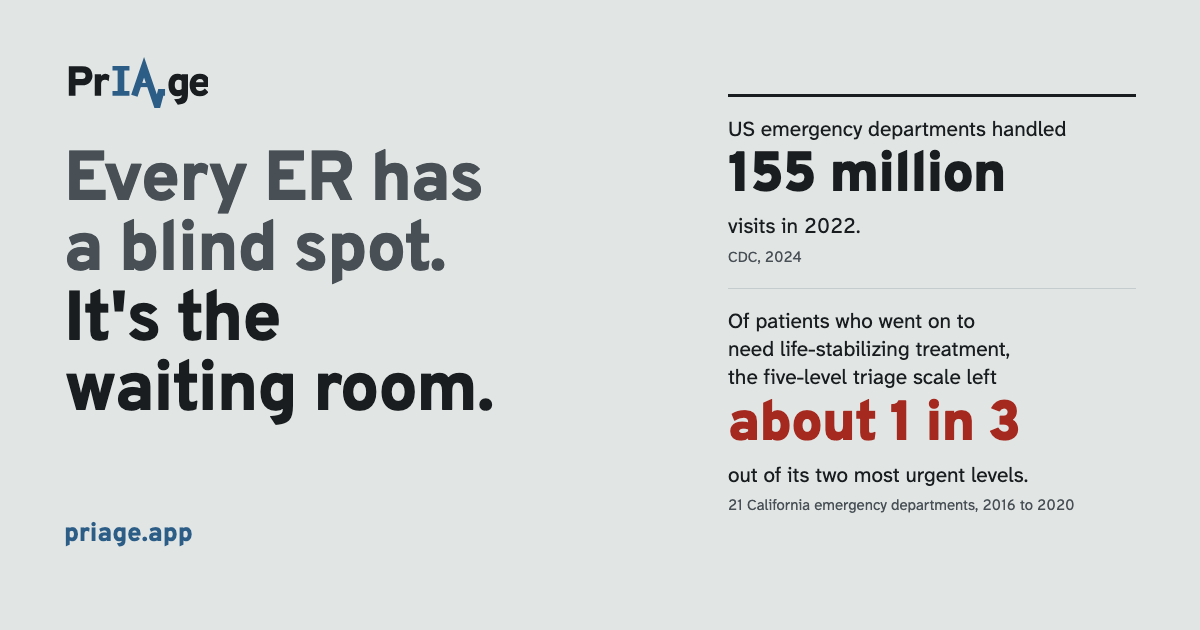
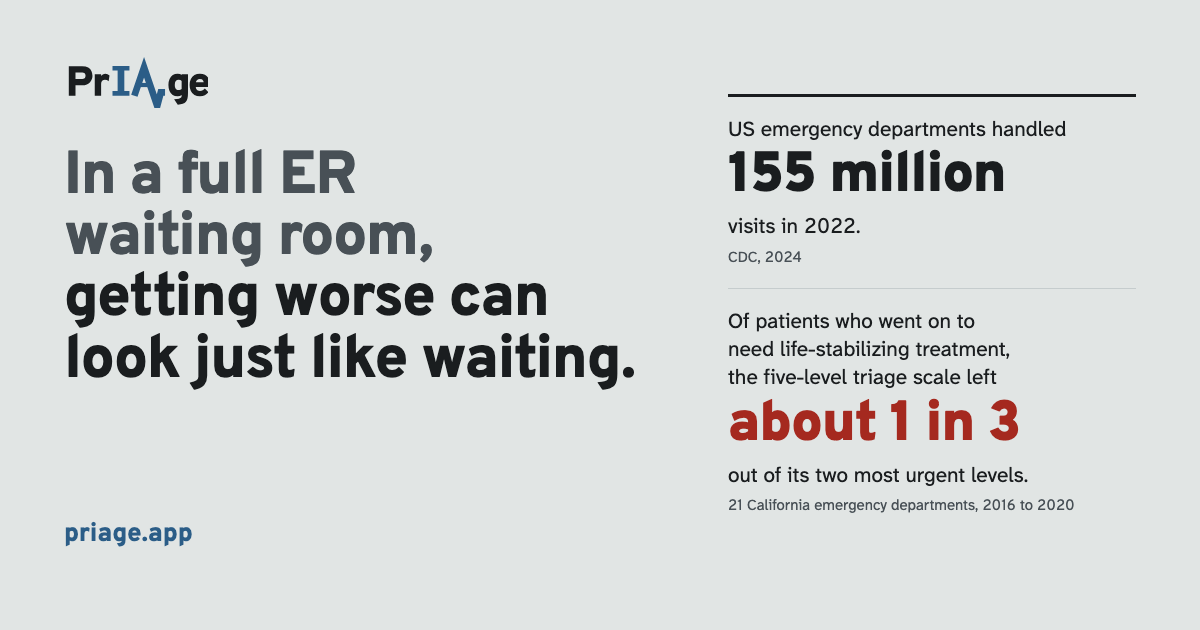
v15: "Getting worse can look just like waiting"
Drop "blind spot", which implied nobody sees or is working on the
problem. The AI line now names patients and the people who care for them.

Changed region(s): [[0.0308, 0.2413, 0.5242, 0.6937]]

diff --git a/docs/index.html b/docs/index.html
@@ -3,29 +3,29 @@
 <head>
   <meta charset="utf-8">
   <meta name="viewport" content="width=device-width, initial-scale=1">
-  <title>PrIAge: every ER has a blind spot. It's the waiting room.</title>
+  <title>PrIAge: in a full ER waiting room, getting worse can look just like waiting</title>
   <meta name="description" content="Patients can wait for hours in the ER, before triage and after it, and it is hard for anyone to see who is getting worse. The numbers, the strain on the people who work there, and what PrIAge is working on.">
   <meta name="robots" content="noindex, nofollow, noarchive, nosnippet, noimageindex">
   <meta name="theme-color" content="#2b5d87">
-  <link rel="icon" href="favicon.svg?v=14" type="image/svg+xml">
+  <link rel="icon" href="favicon.svg?v=15" type="image/svg+xml">
   <link rel="apple-touch-icon" href="apple-touch-icon.png">
   <meta property="og:type" content="website">
   <meta property="og:url" content="https://priage.app/">
-  <meta property="og:title" content="Every ER has a blind spot. It's the waiting room.">
+  <meta property="og:title" content="In a full ER waiting room, getting worse can look just like waiting.">
   <meta property="og:description" content="Patients can wait for hours in the ER, and it is hard for anyone to see who is getting worse. What happens while people wait, and what PrIAge is working on.">
-  <meta property="og:image" content="https://priage.app/og.png?v=14">
+  <meta property="og:image" content="https://priage.app/og.png?v=15">
   <meta name="twitter:card" content="summary_large_image">
   <link rel="preload" href="fonts/overpass.woff2" as="font" type="font/woff2" crossorigin>
   <link rel="preload" href="fonts/atkinson-next.woff2" as="font" type="font/woff2" crossorigin>
-  <link rel="stylesheet" href="styles.css?v=14">
-  <script src="app.js?v=14" defer></script>
+  <link rel="stylesheet" href="styles.css?v=15">
+  <script src="app.js?v=15" defer></script>
 </head>
 <body>
   <a class="skip" href="#top">Skip to content</a>
 
   <header class="top">
     <div class="wrap nav">
-      <a class="wordmark" href="#top"><img src="logo.svg?v=14" alt="PrIAge" width="120" height="43"></a>
+      <a class="wordmark" href="#top"><img src="logo.svg?v=15" alt="PrIAge" width="120" height="43"></a>
       <nav aria-label="Main">
         <ul>
           <li class="nav-quiet"><a href="#story">The numbers</a></li>
@@ -39,7 +39,7 @@
   <main id="top">
     <section class="hero" aria-labelledby="hero-title">
       <div class="wrap hero-grid">
-        <h1 id="hero-title"><span class="h1-setup">Every ER has a blind spot.</span> <span class="h1-turn">It's the waiting room.</span></h1>
+        <h1 id="hero-title"><span class="h1-setup">In a full ER waiting room,</span> <span class="h1-turn">getting worse can look just like waiting.</span></h1>
         <p class="lede">Patients can wait for hours, before triage and after it. While they wait, it is hard for anyone to see who is getting worse.</p>
         <ul class="hero-stats">
           <li class="stat">
@@ -57,7 +57,7 @@
         </ul>
         <div class="ai-plate">
           <div class="ai-copy">
-            <p class="ai-line"><b>PrIAge</b> plans to use AI to help improve outcomes for people waiting in the ER.</p>
+            <p class="ai-line"><b>PrIAge</b> plans to use AI to help improve outcomes for patients waiting in the ER and for the people who care for them.</p>
             <p class="ai-stage">We're early: in fall 2026 we're talking with ER staff, hospital leaders, patients and families.</p>
           </div>
           <a class="btn btn-light" href="#talk">Talk with us

diff --git a/docs/styles.css b/docs/styles.css
@@ -174,7 +174,7 @@ p { text-wrap: pretty; }
   column-gap: clamp(32px, 5vw, 80px);
 }
 /* a setup and a punchline: the second line lands darker */
-.hero h1 { grid-area: title; font-size: clamp(2.75rem, 1.1rem + 5.4vw, 5.75rem); line-height: 0.98; letter-spacing: -0.025em; }
+.hero h1 { grid-area: title; font-size: clamp(2.5rem, 1.2rem + 4.2vw, 4.75rem); line-height: 1; letter-spacing: -0.022em; }
 .h1-setup, .h1-turn { display: block; }
 .h1-setup { color: var(--ink-soft); }
 .lede { grid-area: lede; align-self: start; margin-top: 28px; max-width: 34ch; font-size: clamp(1.1875rem, 1.05rem + 0.45vw, 1.375rem); line-height: 1.5; }
@@ -190,7 +190,7 @@ p { text-wrap: pretty; }
   background: var(--seat-deep); color: var(--on-seat);
   --focus: var(--on-seat);
 }
-.ai-line { max-width: 32ch; font-family: var(--sign); font-weight: 800; font-size: clamp(1.375rem, 1rem + 1.2vw, 2rem); line-height: 1.15; letter-spacing: -0.01em; text-wrap: balance; }
+.ai-line { max-width: 40ch; font-family: var(--sign); font-weight: 800; font-size: clamp(1.375rem, 1rem + 1.2vw, 2rem); line-height: 1.15; letter-spacing: -0.01em; text-wrap: balance; }
 .ai-line b { font-weight: 900; }
 .ai-stage { margin-top: 8px; font-size: 1rem; color: var(--on-seat-soft); }
 .ai-plate .btn { flex: none; }

diff --git a/brand/build/og.html b/brand/build/og.html
@@ -16,7 +16,7 @@
   }
   .left { display: flex; flex-direction: column; }
   .logo { height: 52px; width: auto; align-self: flex-start; }
-  h1 { margin: 40px 0 0; font: 800 70px/1.0 "Overpass", sans-serif; letter-spacing: -0.02em; }
+  h1 { margin: 40px 0 0; font: 800 60px/1.02 "Overpass", sans-serif; letter-spacing: -0.02em; }
   .setup, .turn { display: block; text-wrap: balance; }
   .setup { color: #485056; }
   .url { margin-top: auto; font: 800 26px/1 "Overpass", sans-serif; color: #2b5d87; }
@@ -38,7 +38,7 @@
 <body>
   <div class="left">
     <img class="logo" src="../../docs/logo.svg" alt="PrIAge">
-    <h1><span class="setup">Every ER has a blind spot.</span> <span class="turn">It's the waiting room.</span></h1>
+    <h1><span class="setup">In a full ER waiting room,</span> <span class="turn">getting worse can look just like waiting.</span></h1>
     <p class="url">priage.app</p>
   </div>
   <div class="stats">

diff --git a/PRODUCT.md b/PRODUCT.md
@@ -31,7 +31,7 @@ After a one-time triage snapshot, patients can wait for hours while nobody sees 
 - Never imply reordering, ranking or skipping patients ("the changes ... and skipping people over has tons of implications").
 - Never blame nurses or hospitals; the system is overloaded.
 - Validate the people in the system (confirmed 2026-10-17): nurse fatigue and staffing, hospital capacity, and dollar costs are part of the story, told so that nurses and administrators feel seen, never blamed.
-- No sensational or scary tone, and no playful devices around a life-and-death topic. The owner asked for a more dramatic headline (2026-10-17): "Every ER has a blind spot. It's the waiting room." Drama comes from structure and scale, never from gore, alarm colors or invented claims.
+- No sensational or scary tone, and no playful devices around a life-and-death topic. The owner asked for a more dramatic headline (2026-10-17), then dropped "blind spot" because it implies nobody sees the problem or is trying to solve it. Headline now: "In a full ER waiting room, getting worse can look just like waiting." The difficulty is in seeing the change, never in the people watching. Drama comes from structure and scale, never from gore, alarm colors or invented claims.
 - Focus on the US (confirmed 2026-10-17): lead with US data; strong non-US studies can appear as supporting numbers without highlighting the country, and the number always carries the emphasis over the study.
 - The ask (confirmed 2026-10-17): one simple invitation, no role picking; say what we're looking for (conversations, advice, introductions) and welcome general contact.
 - The page's jobs (confirmed 2026-10-17): land interviews; be the link in applications (accelerators, grants, programs); get into competitions; and tell people what PrIAge is working on. So readers include application reviewers and competition judges who skim for the problem, who is behind it, what the team is working toward, and how far along it is.
@@ -43,7 +43,7 @@ After a one-time triage snapshot, patients can wait for hours while nobody sees 
 
 - No product exists yet. Do not describe features, models, data sources, or how it works.
 - Do not publish the approaches being explored (confirmed 2026-10-17: "I don't know if we should share what we're exploring yet, just what the problem we're looking to solve").
-- Say that PrIAge uses AI, but never how (confirmed 2026-10-17: "Don't explain what the solution is, but just say that we're going to be using AI to solve this problem somewhere in the hero"). Keep it very vague (confirmed 2026-10-17: "say PrIAge plans to use AI to help improve outcomes, or something like that. Very vague"). The hero line: "PrIAge plans to use AI to help improve outcomes for people waiting in the ER." No mention of nurses, information or any mechanism there.
+- Say that PrIAge uses AI, but never how. AI line (2026-10-17): "PrIAge plans to use AI to help improve outcomes for patients waiting in the ER and for the people who care for them." It serves patients and providers alike (confirmed 2026-10-17: "Don't explain what the solution is, but just say that we're going to be using AI to solve this problem somewhere in the hero"). Keep it very vague (confirmed 2026-10-17: "say PrIAge plans to use AI to help improve outcomes, or something like that. Very vague"). The hero line: "PrIAge plans to use AI to help improve outcomes for people waiting in the ER." No mention of nurses, information or any mechanism there.
 - Earlier internal prototypes were throwaway tests, not the product; never describe them publicly.
 - Contact: hello@priage.app, forwarded to the owner's Gmail via Cloudflare Email Routing.
 - Audience access (confirmed 2026-10-17): US visitors only and no scraping. Cloudflare proxies priage.app and blocks every country except the US and its territories (US, PR, GU, VI, AS, MP); its AI-bot block is on for search, agent and training bots; the page carries `noindex`; robots.txt admits only link-preview bots (LinkedIn, Slack, X, Facebook, WhatsApp, Telegram, Discord) so shared links still show a card. Trade-off accepted: reviewers, judges and teammates outside the US cannot open the site, and the GitHub repo stays public, so its source is readable from anywhere.

diff --git a/DESIGN.md b/DESIGN.md
@@ -352,3 +352,7 @@ Owner's notes after round 3: make the blind spot more dramatic, feature the AI l
 - **AI plate.** A Seat Deep panel at the bottom of the hero: "PrIAge plans to use AI to help improve outcomes for people waiting in the ER." in Overpass 800 white, the dated stage line in On Seat Mist under it, and the light "Talk with us" button on the right (stacked on phones). It replaces the small PrIAge line and the separate hero button.
 - **Strip.** Titled "What happens while patients wait in the ER."; the subhead is only the no-blame line; the end card no longer refers to a missing count.
 
+## v15: no "blind spot" (2026-10-17)
+
+The owner dropped "blind spot": it implies nobody sees the problem or is trying to solve it. The headline now names why it is hard to see, not who fails to see it: "In a full ER waiting room," (setup, Soft Ink) / "getting worse can look just like waiting." (punchline, Chart Ink), up to 4.75rem so the hero still ends inside a 900px-tall screen. The AI plate reads "PrIAge plans to use AI to help improve outcomes for patients waiting in the ER and for the people who care for them." so the goal serves patients and providers alike.
+
